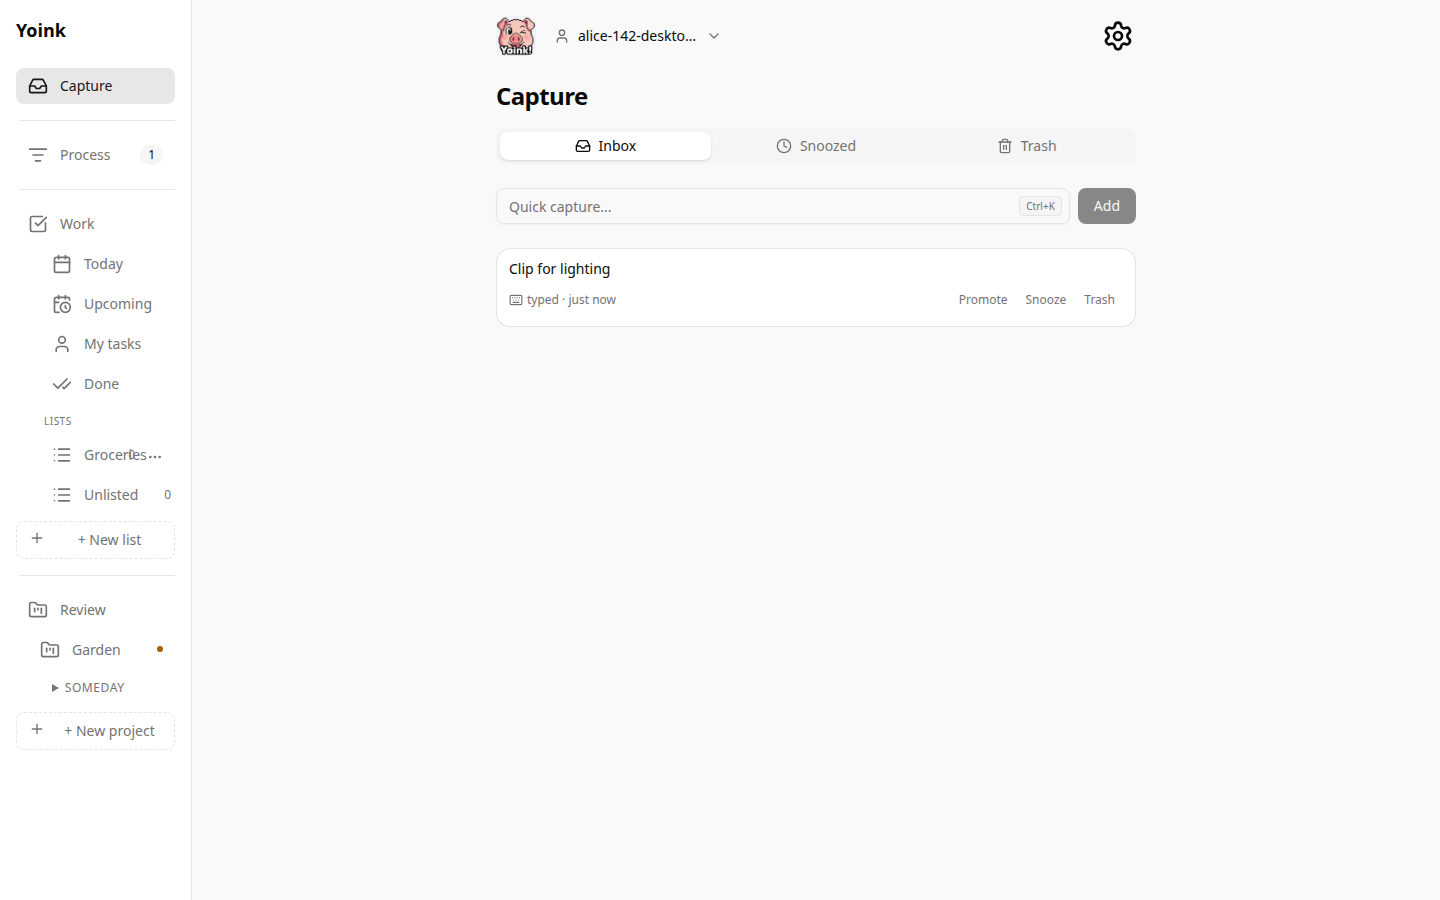
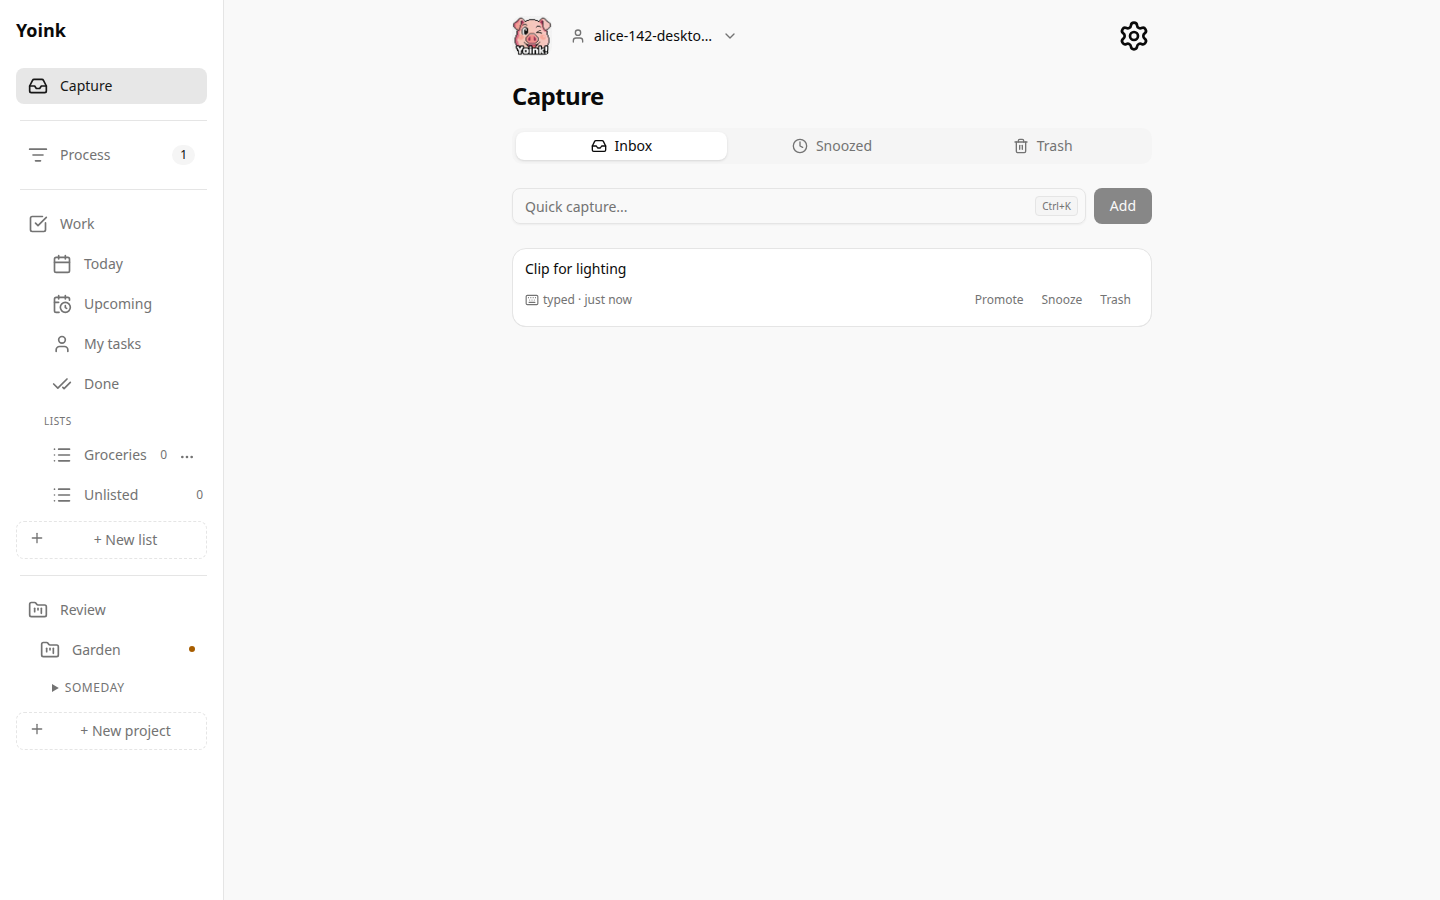
Re-shoot desktop rail shots after widening the sidebar
Named-list labels now sit clear of the count and overflow in the
w-56 rail. The long-rail acceptance check uses painted text boxes.

diff --git a/packages/acceptance-testing/src/drivers/playwright/page-objects.ts b/packages/acceptance-testing/src/drivers/playwright/page-objects.ts
@@ -2339,20 +2339,7 @@ export class AppRail {
    */
   async expectNamedListLabelsClearOfCountAndOverflow(): Promise<void> {
     await this.waitForVisible();
-    const overlaps = await this.root().evaluate(`(rail) => {
-      const overlapsBox = (rects, box) =>
-        [...rects].some(
-          (rect) =>
-            rect.width > 0 &&
-            rect.height > 0 &&
-            !(
-              rect.right <= box.left ||
-              rect.left >= box.right ||
-              rect.bottom <= box.top ||
-              rect.top >= box.bottom
-            )
-        );
-
+    const overlaps = await this.root().evaluate((rail) => {
       return [...rail.querySelectorAll('[data-rail-item="named"]')].flatMap((item) => {
         const label = item.getAttribute('data-rail-label') ?? '';
         const row = item.parentElement;
@@ -2362,20 +2349,42 @@ export class AppRail {
         }
         const range = item.ownerDocument.createRange();
         range.selectNodeContents(text);
-        const textRects = range.getClientRects();
+        const textRects = [...range.getClientRects()].filter(
+          (rect) => rect.width > 0 && rect.height > 0
+        );
         const count = row.querySelector('[data-rail-list-count]');
         const overflow = row.querySelector('[data-rail-overflow]');
+        const countBox = count === null ? null : count.getBoundingClientRect();
+        const overflowBox = overflow === null ? null : overflow.getBoundingClientRect();
         const countHit =
-          count !== null && overlapsBox(textRects, count.getBoundingClientRect())
+          countBox !== null &&
+          textRects.some(
+            (rect) =>
+              !(
+                rect.right <= countBox.left ||
+                rect.left >= countBox.right ||
+                rect.bottom <= countBox.top ||
+                rect.top >= countBox.bottom
+              )
+          )
             ? [{ label, overlap: 'count' }]
             : [];
         const overflowHit =
-          overflow !== null && overlapsBox(textRects, overflow.getBoundingClientRect())
+          overflowBox !== null &&
+          textRects.some(
+            (rect) =>
+              !(
+                rect.right <= overflowBox.left ||
+                rect.left >= overflowBox.right ||
+                rect.bottom <= overflowBox.top ||
+                rect.top >= overflowBox.bottom
+              )
+          )
             ? [{ label, overlap: 'overflow' }]
             : [];
         return [...countHit, ...overflowHit];
       });
-    }`);
+    });
 
     if (!Array.isArray(overlaps)) {
       throw new Error('expected named-list overlap hits to be an array');
